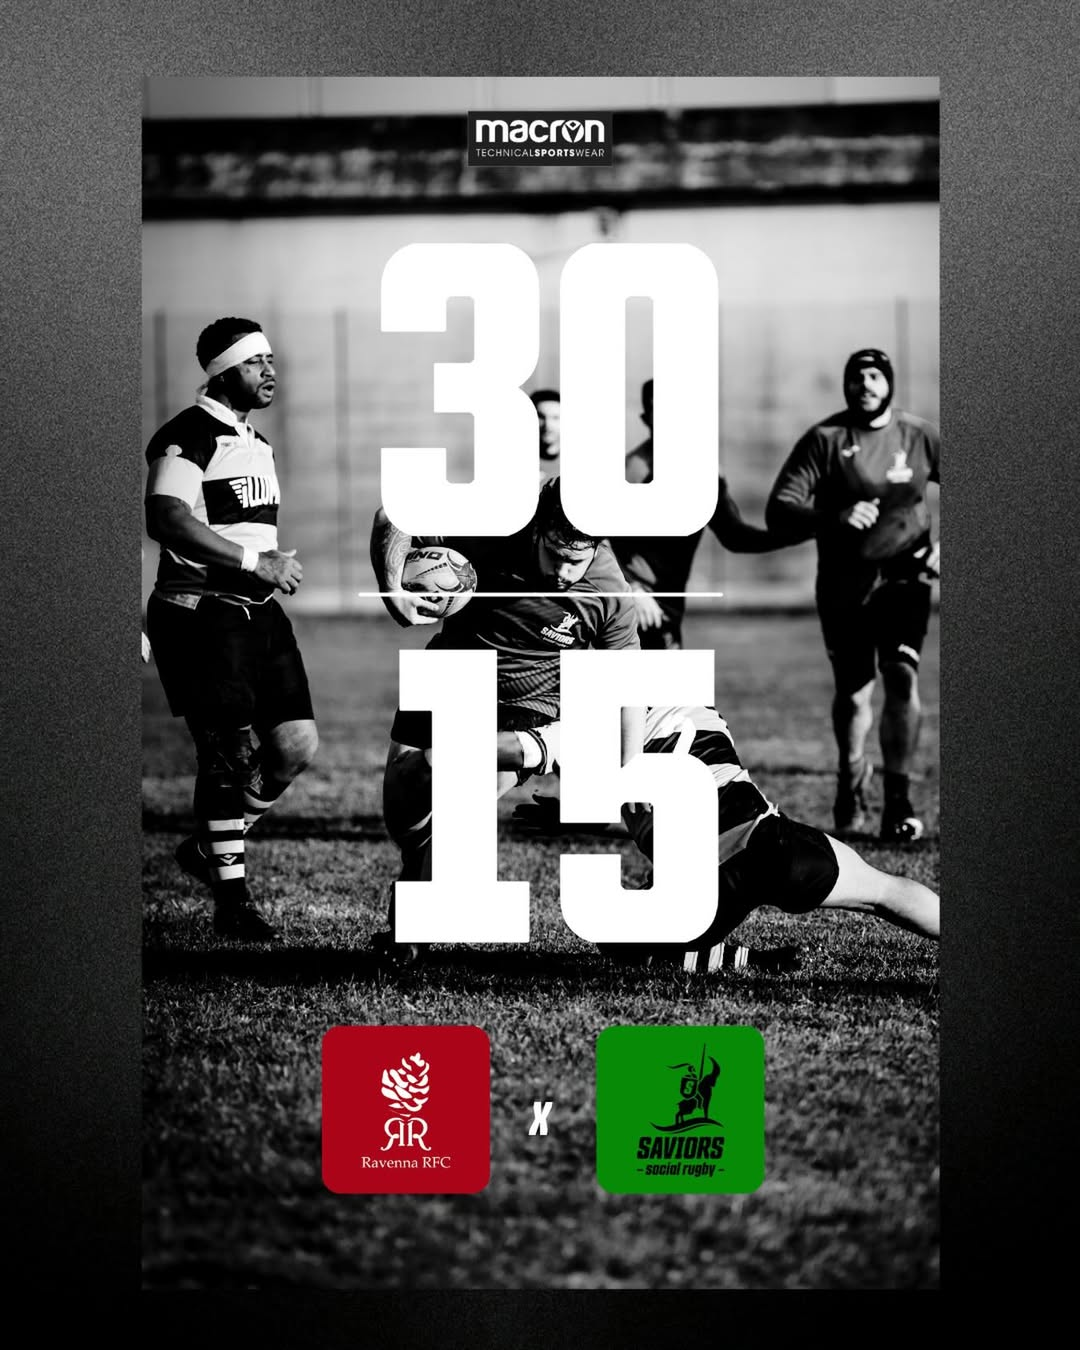
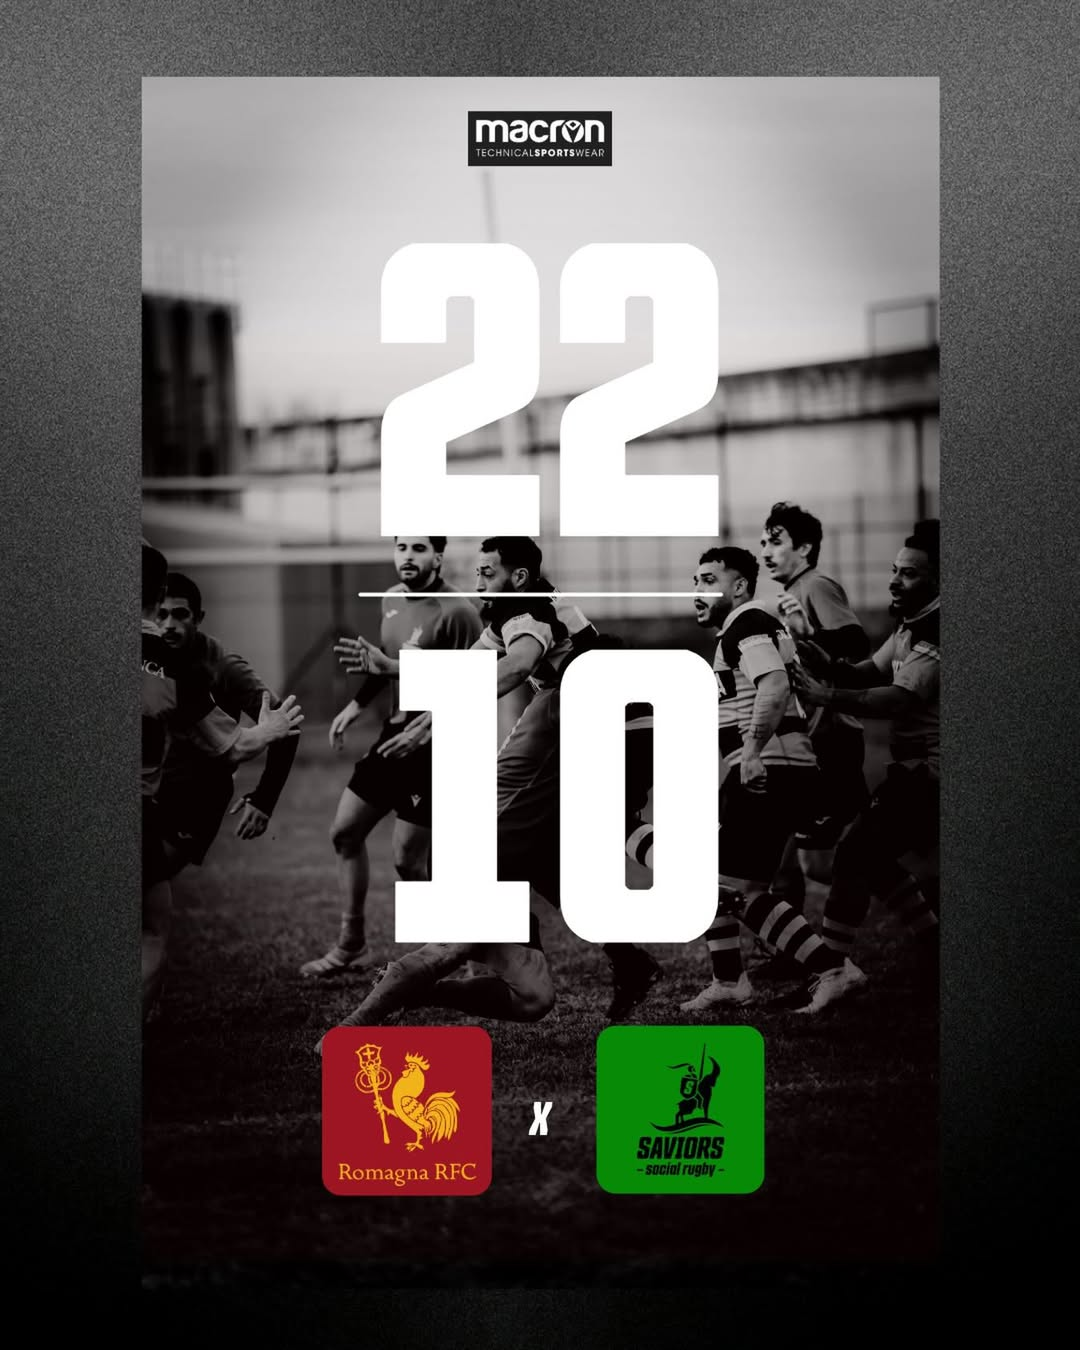
update

diff --git a/content/posts/last-match/index.md b/content/posts/last-match/index.md
@@ -1,5 +1,5 @@
 ---
-title: "Ultimo Match:<br/>Ravenna Rugby FC vs Saviors Social Rugby (30 - 15)"
+title: "Ultimo Match:<br/>Romagna RFC vs Saviors Social Rugby (22 - 10)"
 date: "2025-12-08"
 sharingLinks:
   - facebook
@@ -7,7 +7,7 @@ sharingLinks:
   - telegram
 tags:
   - Saviors
-  - Ravenna
+  - Romagna
 showDate: false
 showHeadingAnchors: false
 showHero: false
@@ -15,10 +15,10 @@ weight: 1
 hide: true
 ---
 
-![](./team.jpg)
-
-| Giornata  | Data       | Orario | Casa             | Ospiti                       | Indirizzo                   |
-| --------- | ---------- | ------ | ---------------- | ---------------------------- | --------------------------- |
-| 4ᵃ Andata | 14/12/2025 | 14:30  | Ravenna Rugby FC | **Saviors Social Rugby ASD** | Sadio Muccinelli, Lugo (RA) |
-
 ![](./featured.jpg)
+
+| Giornata  | Data       | Orario | Casa        | Ospiti                       | Indirizzo                |
+| --------- | ---------- | ------ | ----------- | ---------------------------- | ------------------------ |
+| 5ᵃ Andata | 17/01/2026 | 14:30  | Romagna RFC | **Saviors Social Rugby ASD** | Campo Rivabella - Rimini |
+
+![](./team.jpg)

diff --git a/content/posts/next-match/index.md b/content/posts/next-match/index.md
@@ -1,5 +1,5 @@
 ---
-title: "Prossimo Match:<br/>Romagna RFC vs Saviors Social Rugby"
+title: "Prossimo Match:<br/>Saviors Social Rugby vs Colorno"
 date: "2025-12-08"
 sharingLinks:
   - facebook
@@ -17,8 +17,8 @@ hide: true
 
 <!-- ![](./team.jpg) -->
 
-| Giornata  | Data       | Orario | Casa        | Ospiti                       | Indirizzo                |
-| --------- | ---------- | ------ | ----------- | ---------------------------- | ------------------------ |
-| 5ᵃ Andata | 17/01/2026 | 14:30  | Romagna RFC | **Saviors Social Rugby ASD** | Campo Rivabella - Rimini |
+| Giornata  | Data       | Orario | Casa                         | Ospiti             | Indirizzo                               |
+| --------- | ---------- | ------ | ---------------------------- | ------------------ | --------------------------------------- |
+| 6ᵃ Andata | 25/01/2026 | 14:30  | **Saviors Social Rugby ASD** | Rugby Colorno 1975 | Via Roversano 2815, 47522 - Cesena (FC) |
 
-![](./featured.jpg)
+<!-- ![](./featured.jpg) -->
